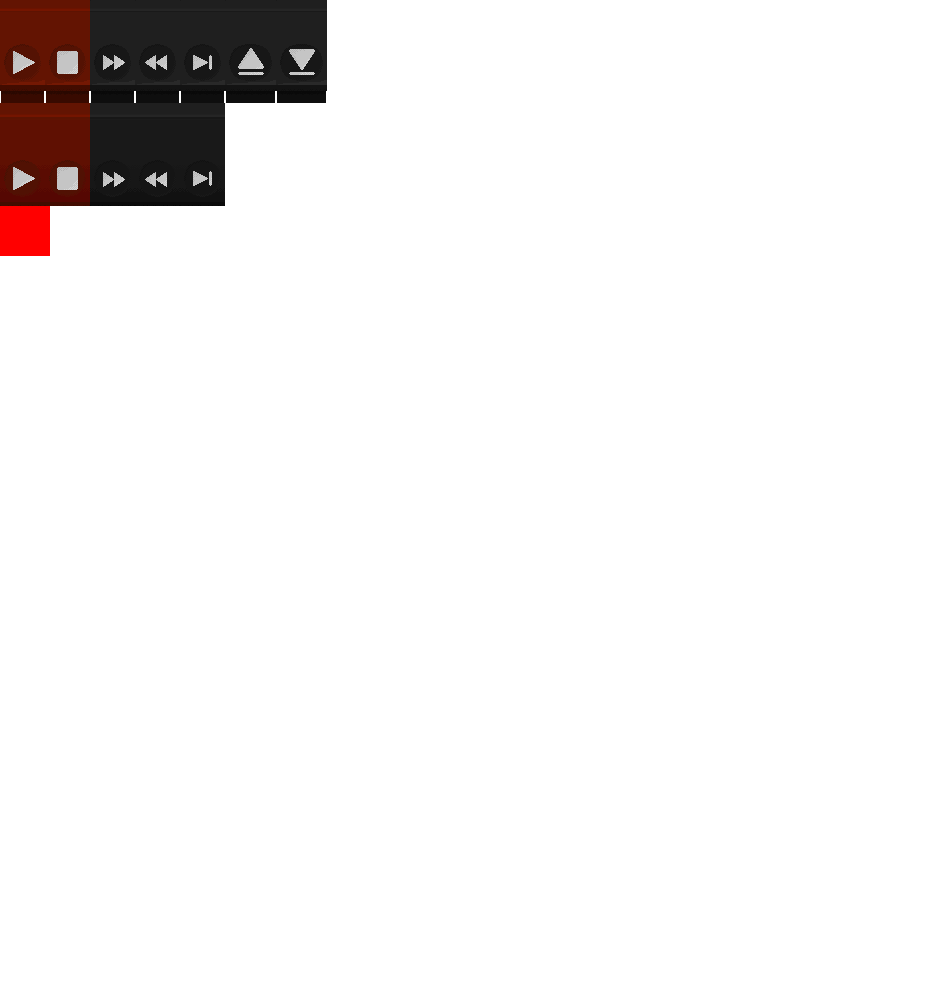
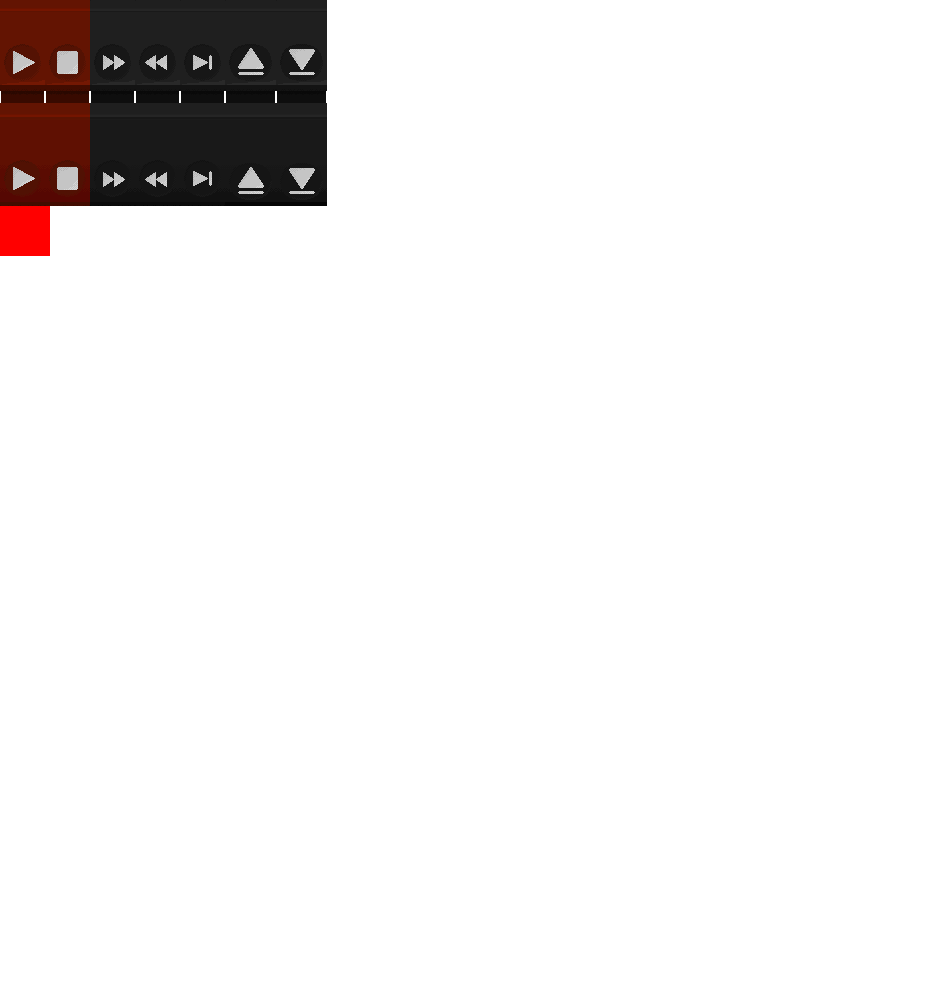
Added down state for eject and admit button.

Changed region(s): [[0.2148, 0.0908, 0.3683, 0.2119]]

diff --git a/src/gui/GUI.java b/src/gui/GUI.java
@@ -38,22 +38,6 @@ public class GUI {
         buttons[5] = new Button(asset_path, Button.Type.EJECT       , 600, 675, 2);
         buttons[6] = new Button(asset_path, Button.Type.ADMIT       , 712, 675, 2);
     }
-    
-    public void setState(int x, int y, Game game) {
-        Button choice = null;
-        for (Button button : buttons) {
-            int bX = button.getX();
-            int bY = button.getY();
-            if (x >= bX && x <= bX + 46 && y >= bY && y <= bY + 103) {
-                choice = button;
-                break;
-            }
-        }
-        if (choice != null) {
-            Button.Type type = choice.getType();
-
-        }
-    }
 
 
     public void commitAction(Game game, Button.Type type){

diff --git a/src/gui/Button.java b/src/gui/Button.java
@@ -14,8 +14,8 @@ public class Button {
         FAST_FORWARD(      Atlas.FAST_FORWARD_UP, Atlas.FAST_FORWARD_DOWN),
               REWIND(      Atlas.REWIND_UP      , Atlas.REWIND_DOWN      ),
                 STEP(      Atlas.STEP_UP        , Atlas.STEP_DOWN        ),
-               EJECT(      Atlas.EJECT_UP                                ),
-               ADMIT(      Atlas.ADMIT_UP                                );
+               EJECT(      Atlas.EJECT_UP       , Atlas.EJECT_DOWN       ),
+               ADMIT(      Atlas.ADMIT_UP       , Atlas.ADMIT_DOWN       );
 
 
 

diff --git a/src/gui/Atlas.java b/src/gui/Atlas.java
@@ -21,8 +21,10 @@ public enum Atlas {
 
 
            EJECT_UP(225,  0,51,103),
+      EJECT_DOWN(225, 103, 51, 103),
 
-           ADMIT_UP(276,  0,51,103)
+           ADMIT_UP(276,  0,51,103),
+      ADMIT_DOWN(276, 103, 51, 103)
     ;
 
 
